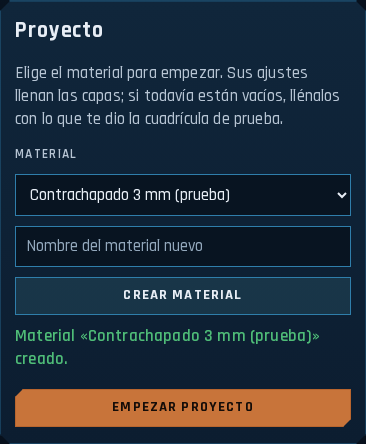
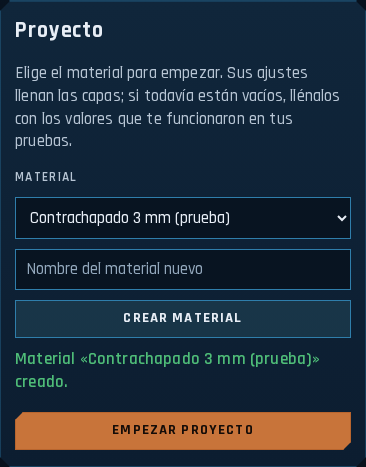
Fase 1: los 6 textos de Marketing (introInicio, ayudaAjustes, sinMateriales, confirmarNuevo, sinFiguras, sinSeleccion), prueba de Playwright con la redacción exacta y capturas regeneradas

diff --git a/src/ui/proyecto.ts b/src/ui/proyecto.ts
@@ -36,10 +36,10 @@ import { Lienzo } from './lienzo';
 /** Textos de la interfaz del proyecto. */
 export const TEXTOS_PROYECTO = {
   titulo: 'Proyecto',
-  introInicio: 'Elige el material para empezar. Sus ajustes llenan las capas; si todavía están vacíos, llénalos con lo que te dio la cuadrícula de prueba.',
+  introInicio: 'Elige el material para empezar. Sus ajustes llenan las capas; si todavía están vacíos, llénalos con los valores que te funcionaron en tus pruebas.',
   material: 'Material',
   elegirMaterial: 'Elige un material',
-  sinMateriales: 'Todavía no hay materiales. Crea uno con su nombre.',
+  sinMateriales: 'Todavía no hay materiales. Escribe un nombre para crear el primero.',
   nombreNuevo: 'Nombre del material nuevo',
   crearMaterial: 'Crear material',
   materialCreado: (n: string) => `Material «${n}» creado.`,
@@ -48,14 +48,14 @@ export const TEXTOS_PROYECTO = {
   importar: 'Importar SVG o DXF',
   borrar: 'Borrar',
   nuevoProyecto: 'Nuevo proyecto',
-  confirmarNuevo: 'Se borrará el diseño actual. ¿Empezar un proyecto nuevo?',
+  confirmarNuevo: 'Se borrará el diseño actual y no se puede recuperar. ¿Empezar un proyecto nuevo?',
   importado: (n: number, archivo: string) => (n === 1 ? `Se importó 1 figura de «${archivo}».` : `Se importaron ${n} figuras de «${archivo}».`),
-  sinFiguras: (archivo: string) => `No encontré figuras en «${archivo}».`,
+  sinFiguras: (archivo: string) => `No se encontraron figuras en «${archivo}».`,
   omitidos: (lista: string) => `No se importaron: ${lista}.`,
   formatoNoSoportado: 'Solo se pueden importar archivos .svg o .dxf.',
   errorLeer: (archivo: string, motivo: string) => `No se pudo importar «${archivo}»: ${motivo}`,
   propiedades: 'Posición y tamaño (mm)',
-  sinSeleccion: 'Toca una figura para seleccionarla, o arrastra un recuadro para elegir varias.',
+  sinSeleccion: 'Toca o haz clic en una figura para seleccionarla, o arrastra un recuadro para elegir varias.',
   x: 'X',
   y: 'Y',
   ancho: 'Ancho',
@@ -88,7 +88,7 @@ export const TEXTOS_PROYECTO = {
   errorGenerar: 'Error inesperado al generar el G-code.',
   vistaLienzo: 'Vista del lienzo',
   ajustesMaterial: 'Ajustes del material',
-  ayudaAjustes: 'Llena estos valores con los que mejor resultado te dieron en la cuadrícula de prueba con este material. Se usan al crear capas nuevas.',
+  ayudaAjustes: 'Llena estos valores con los que mejor resultado te dieron en tus pruebas con este material. Se usan al crear capas nuevas.',
   guardarAjustes: 'Guardar ajustes',
   ajustesGuardados: 'Ajustes guardados.',
   exportarMateriales: 'Exportar materiales',

diff --git a/tests/e2e/proyecto.spec.ts b/tests/e2e/proyecto.spec.ts
@@ -235,3 +235,30 @@ test.describe('ajustes del material: campos anchos (N1)', () => {
     });
   }
 });
+
+test.describe('textos de Marketing (1a)', () => {
+  test('se muestran con la redacción exacta', async ({ page }, info) => {
+    await preparar(page, CASOS[0].perfilPrueba);
+    await expect(page.getByTestId('proyecto')).toContainText(
+      'Elige el material para empezar. Sus ajustes llenan las capas; si todavía están vacíos, llénalos con los valores que te funcionaron en tus pruebas.',
+    );
+    await expect(page.getByTestId('material-select').locator('option').first()).toHaveText('Todavía no hay materiales. Escribe un nombre para crear el primero.');
+    await empezarCon(page, 'Pino 3 mm');
+    await expect(page.getByTestId('sin-seleccion')).toHaveText('Toca o haz clic en una figura para seleccionarla, o arrastra un recuadro para elegir varias.');
+    await expect(page.getByTestId('panel-material')).toContainText(
+      'Llena estos valores con los que mejor resultado te dieron en tus pruebas con este material. Se usan al crear capas nuevas.',
+    );
+    const vacio = info.outputPath('vacio.svg');
+    writeFileSync(vacio, '<svg xmlns="http://www.w3.org/2000/svg" width="10mm" height="10mm" viewBox="0 0 10 10"></svg>');
+    await page.getByTestId('importar-diseno').setInputFiles(vacio);
+    await expect(page.getByTestId('proyecto-estado')).toHaveText('No se encontraron figuras en «vacio.svg».');
+    await page.getByTestId('importar-diseno').setInputFiles(join(MUESTRAS, 'cuadrados.svg'));
+    let mensaje = '';
+    page.once('dialog', (d) => {
+      mensaje = d.message();
+      void d.dismiss();
+    });
+    await page.getByTestId('nuevo-proyecto').click();
+    await expect.poll(() => mensaje).toBe('Se borrará el diseño actual y no se puede recuperar. ¿Empezar un proyecto nuevo?');
+  });
+});

diff --git a/README.md b/README.md
@@ -90,7 +90,7 @@ de referencia, sin `--laser-mode`, con `--max-s` y `--area=` de cada perfil de p
   Los trazos abiertos se cortan como líneas en las capas de corte; en el grabado no se rellenan y
   al exportar se avisa cuántos quedaron fuera del relleno.
 - **Materiales:** se elige uno al empezar el proyecto. Sus ajustes por modo empiezan vacíos (no se
-  inventan valores): se llenan con lo que dé la cuadrícula de prueba. Se guardan en localStorage
+  inventan valores): se llenan con los valores que te funcionaron en tus pruebas. Se guardan en localStorage
   (`chopilaser.materiales.v1`) y se exportan/importan en `.json` con validación estricta
   (`formato: "chopilaser-materiales"`, `version: 1`, hasta 200 materiales y 1 MB).
 - **Exportar:** siempre con el generador seguro de la fase 0 y el perfil guardado en ese momento.
